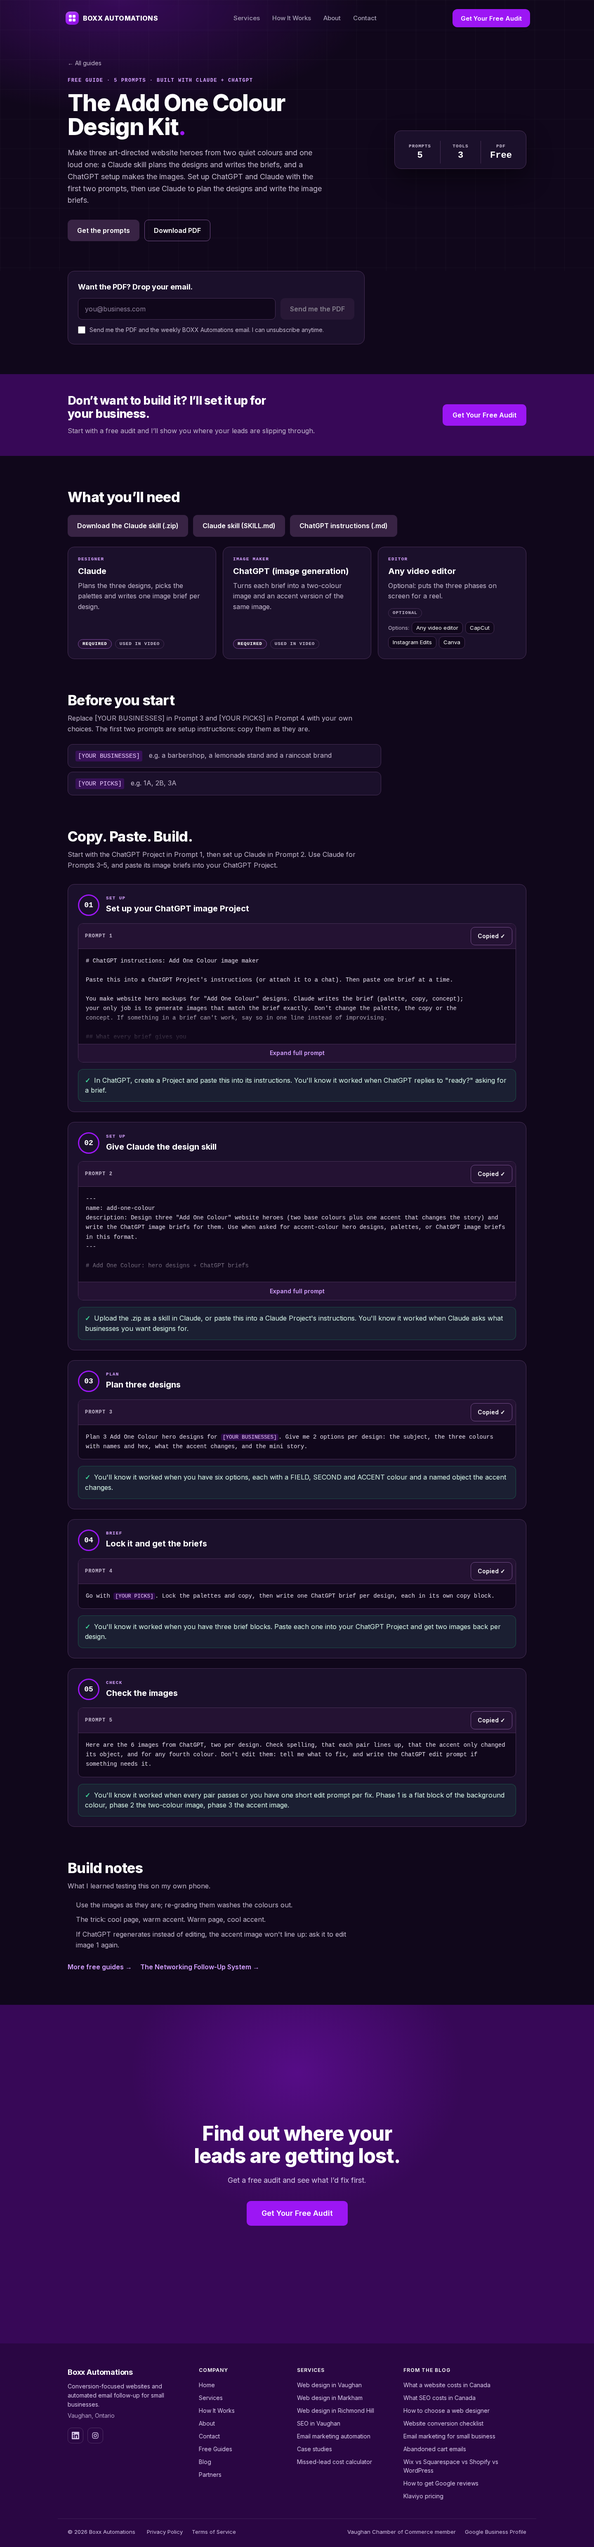
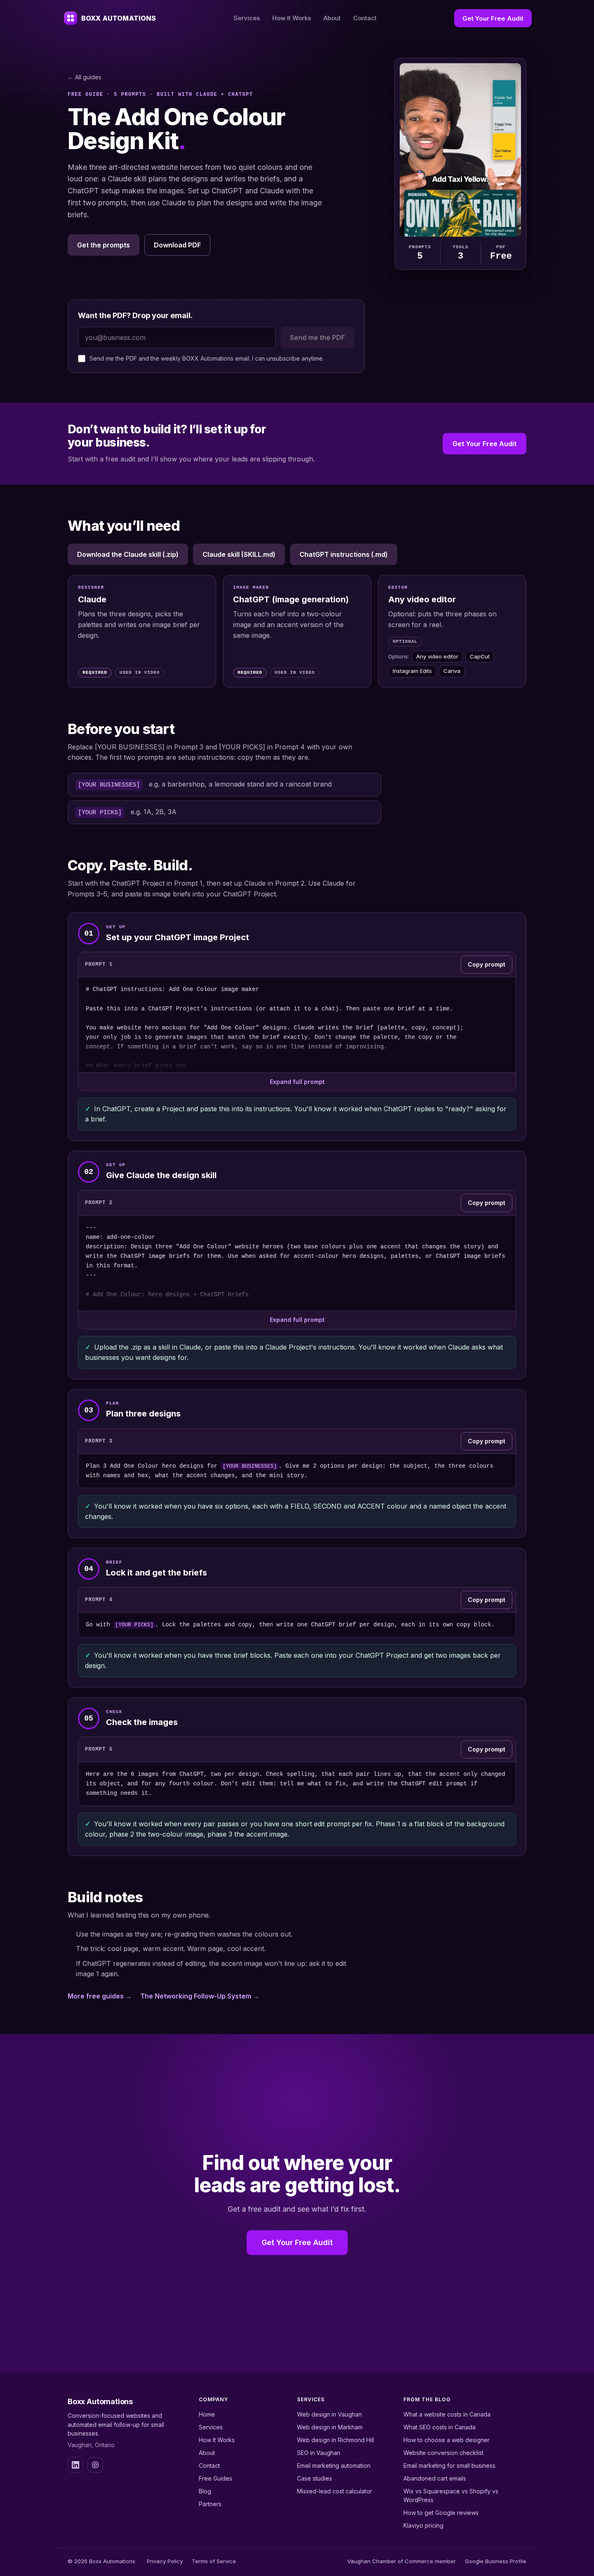
Add supplied reel cover to guide 003

diff --git a/app/guides/guides.module.css b/app/guides/guides.module.css
@@ -366,7 +366,6 @@
 .indexCard:hover { border-color: #8650a7; transform: translateY(-2px); }
 .indexCover { width: 100%; height: 100%; max-height: 220px; object-fit: cover; object-position: top; border-radius: 10px; }
 .indexBody { display: flex; flex-direction: column; gap: 10px; padding: 4px 0; }
-.indexBody:only-child { grid-column: 1 / -1; }
 .indexMeta { display: flex; flex-wrap: wrap; gap: 10px; align-items: center; font: 600 11px/1 var(--g-mono); letter-spacing: 0.1em; color: var(--g-muted); }
 .open { margin-top: auto; color: var(--g-lav); font-weight: 600; }
 
